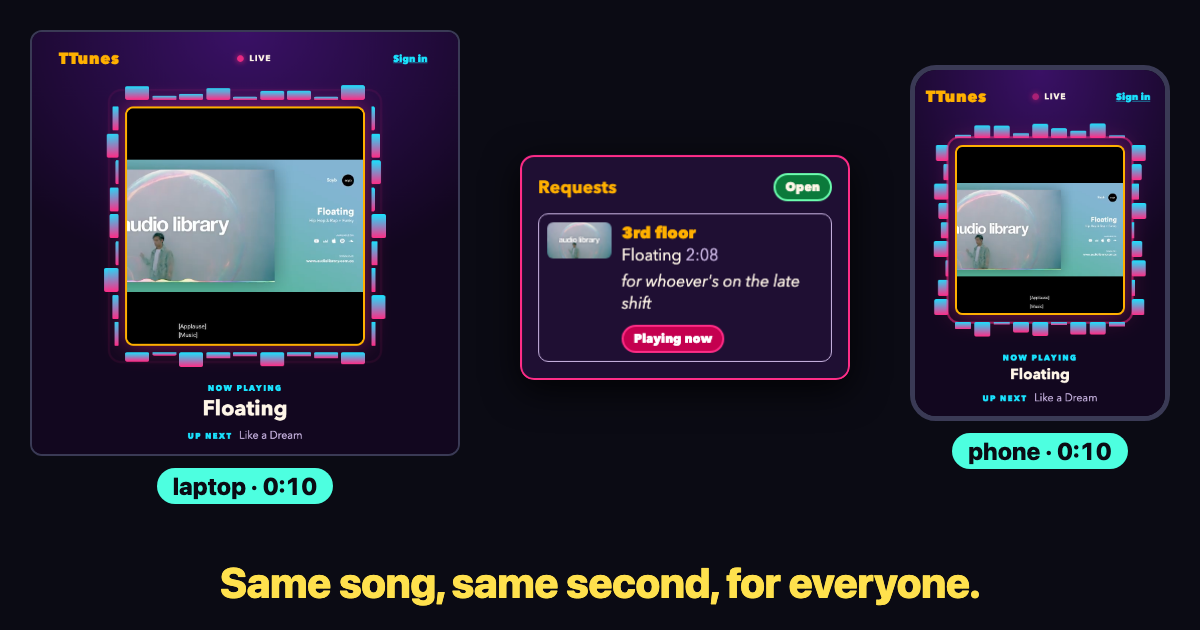
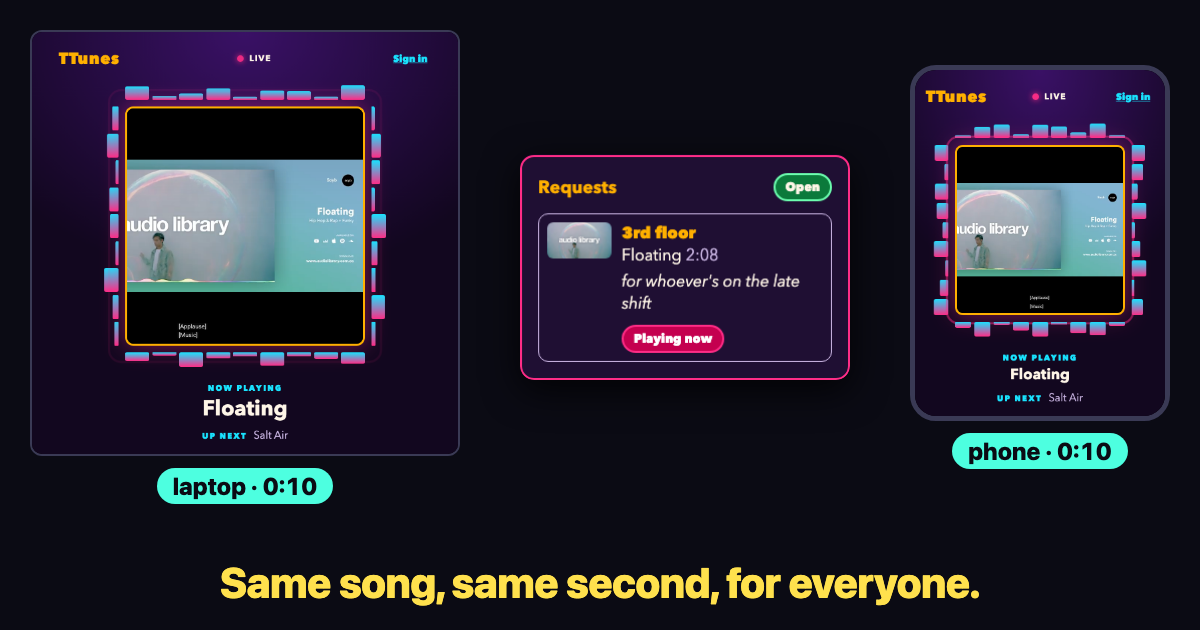
M4 review fixes: exact request rules, local vs deploy env vars, owner id note, preview prerequisites; preview script cleans up on any failure and removes its temp files

diff --git a/README.md b/README.md
@@ -18,7 +18,7 @@ A personal radio station for one person's music library, on a public URL. It pla
 - One shared schedule: every listener hears the same song at the same second, from any browser.
 - Visible YouTube player with a visualizer around it; "Now playing" and "Up next".
 - Never stops: requests first, then the owner's queue, then a shuffle of the library.
-- Listener requests by link or typed search, with an optional dedication, in a public chat-style feed. With requests set to *open*, music under 10 minutes plays without the owner touching anything; anything else waits for approval. Each listener has one request lined up at a time and 5 an hour. The owner can switch requests to *approve first* or *off*, and deny or remove any one.
+- Listener requests by link or typed search, with an optional dedication, in a public chat-style feed. With requests set to *open*, music under 10 minutes plays without the owner touching anything; other requests up to 15 minutes wait for approval; longer ones are refused. Each listener has one request lined up at a time and 5 an hour. The owner can switch requests to *approve first* or *off*, and deny or remove any one.
 - Owner (signed in with GitHub, one account only): add by link or search, skip, reorder, delete with undo, trash, activity log, library export, request mode open / approve first / off.
 
 ### Mac app features
@@ -45,9 +45,13 @@ npm run db:seed      # sample songs, local only
 npm run dev
 ```
 
-Open the address Vite prints. Environment variable names (set them in your shell; values never go in the repo): `DATABASE_URL`, `DATABASE_URL_UNPOOLED`, `YOUTUBE_API_KEY`, `GITHUB_CLIENT_ID`, `GITHUB_CLIENT_SECRET`, `SESSION_SECRET`, `CRON_SECRET`, and optionally `IP_HASH_SALT`. Locally `DATABASE_URL` defaults to the Docker database. More in [station/README.md](station/README.md).
+Open the address Vite prints. Environment variables (values never go in the repo):
+- **Local:** `SESSION_SECRET` (any 32+ characters) and `YOUTUBE_API_KEY`. Leave `DATABASE_URL` unset so it uses the Docker database.
+- **Deploy only** (set in Vercel): `DATABASE_URL`, `DATABASE_URL_UNPOOLED`, `GITHUB_CLIENT_ID`, `GITHUB_CLIENT_SECRET`, `CRON_SECRET`, optionally `IP_HASH_SALT`.
 
-Tests: `npm test` and `npm run typecheck` (in `station/`). Regenerate the preview image: `npm run preview`.
+The owner is one GitHub account, set by `OWNER_GITHUB_ID` in `station/lib/auth.ts`; change it to your own GitHub user id to sign in. More in [station/README.md](station/README.md).
+
+Tests: `npm test` and `npm run typecheck` (in `station/`). Regenerate the preview image: `npm run preview` (needs Docker running via `npm run db:up`, Playwright's Chromium via `npx playwright install chromium`, and internet for the YouTube embed).
 
 ## Run the Mac app
 Install steps for a new Mac are in [docs/INSTALL.md](docs/INSTALL.md): `brew install node yt-dlp ffmpeg`, clone, double-click `Start TTunes.command`. For development:
